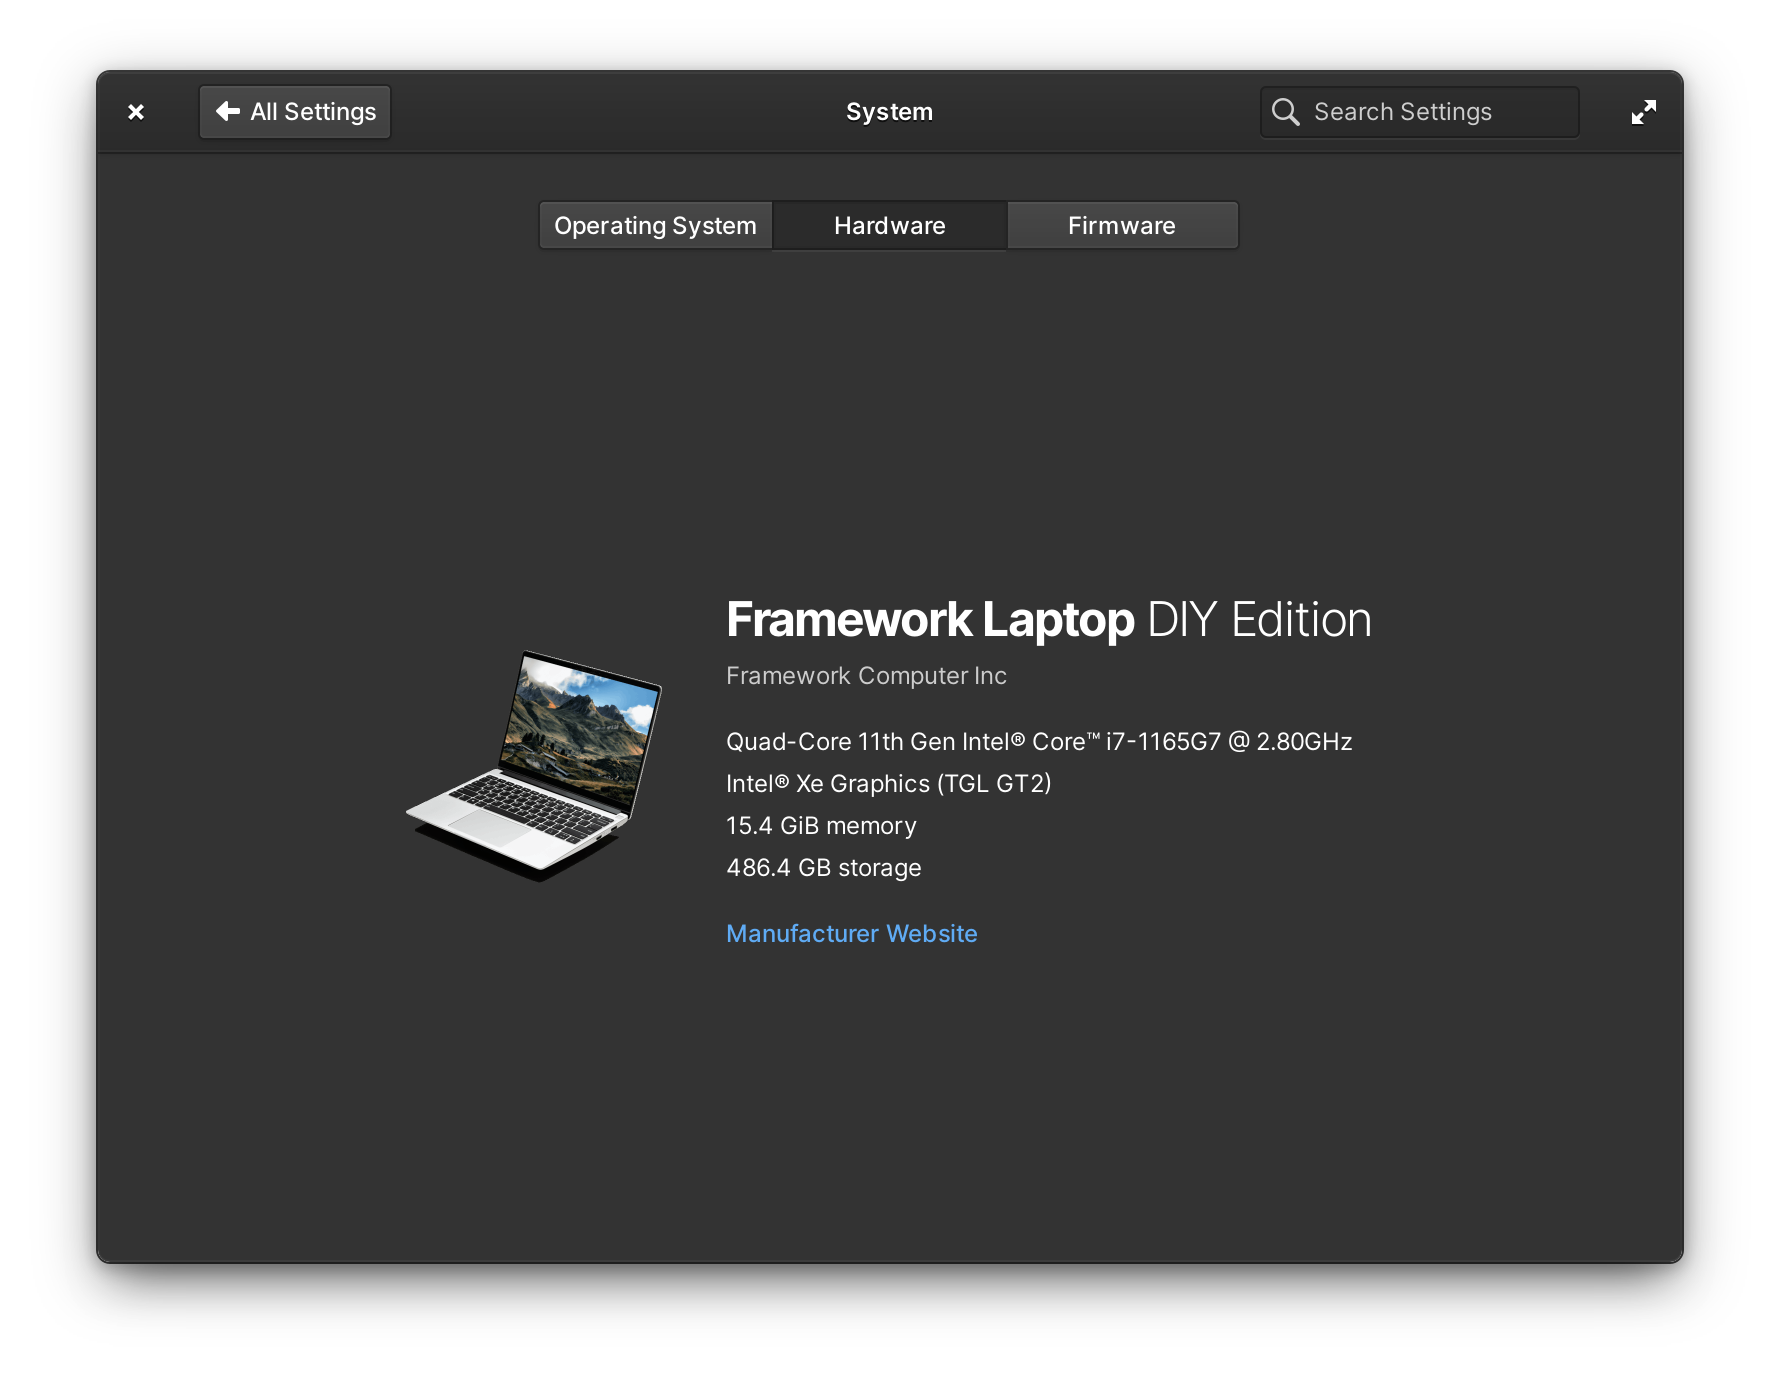
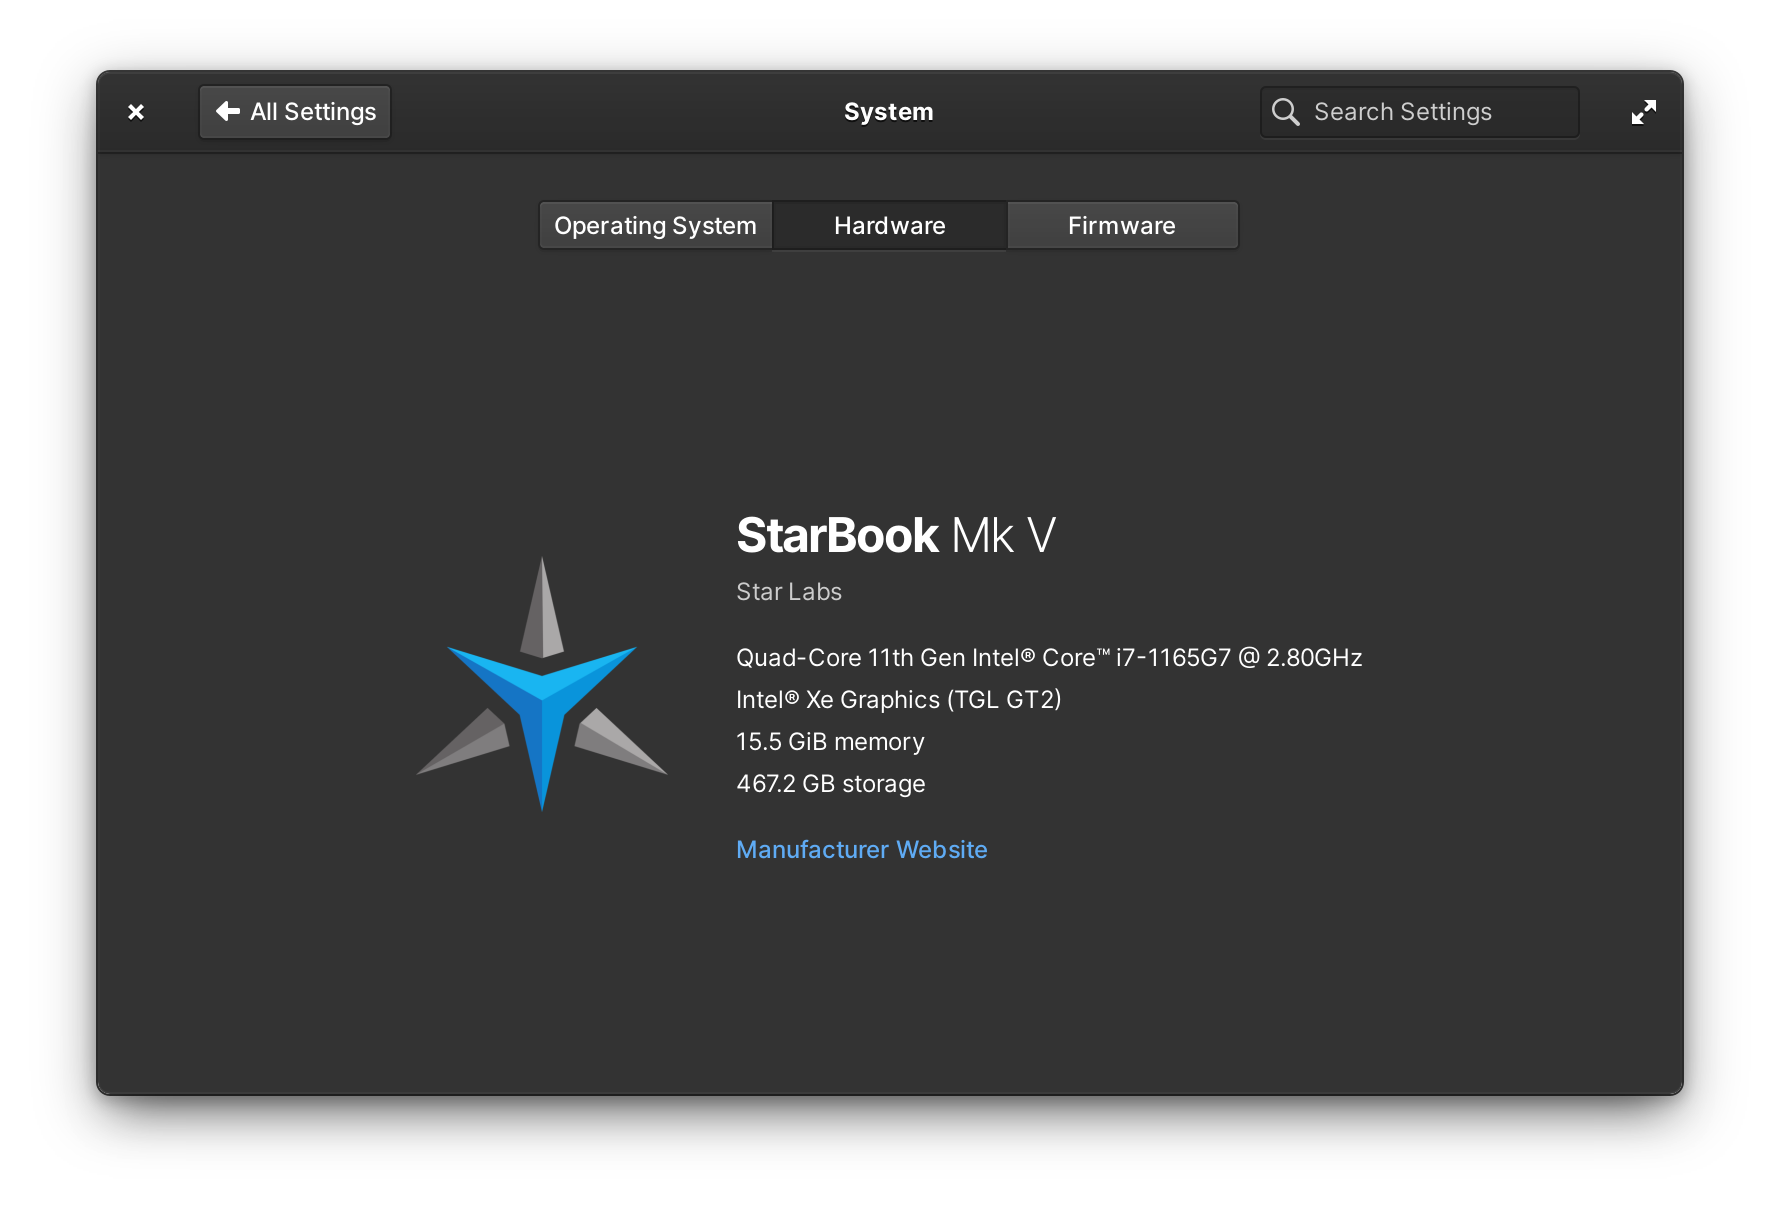
Update recommendations; update StarBook

diff --git a/README.md b/README.md
@@ -21,19 +21,24 @@ See the [Switchboard About Plug's OEM Configuration section](https://github.com/
 
 Images should:
 
-- Ideally represent the hardware itself, but an OEM logo is an acceptible fallback
+- Be an OEM logo, or represent the hardware itself
+  - Previously we recommended it represent the hardware itself, but a logo is simpler and requires less updating over time
+  - For hardware with a display, a generic wallpaper or a default screenshot of the latest release of elementary OS is acceptable
 - Have a square aspect ratio
 - Have a transparent background
 - Be at least 256×256 to ensure they show well on HiDPI displays
 - Be 512×512 at the largest for filesize concerns
 - Work on both light and dark backgrounds
+  - or, provide a variant for a dark background with the optional `LogoDark` key
 
 #### To make an image:
 
-Start with the highest-resolution representitive image you can with a transparent background. Alternatively, grab the OEM logo with a transparent background.
+Start with a high-resolution version of the OEM logo with a transparent background. Alternatively, find the highest-resolution representative image of the hardware you can with a transparent background. 
 
 1. Open in GIMP
 2. Crop the image to the content
 3. If the image is larger than 512 in either dimension, scale it down to 512 on the longest side
 4. If the canvas is not square, resize the canvas to a square and center the image
 5. Export as a PNG
+
+File name does not strictly matter as long as it matches what is in the `oem.conf`, but convention is to name the image a kebab-case version of the OEM name if it is an OEM logo, or the device model number if it is a photo of hardware. E.g. `star-labs.png` or `starbook-mk-v.png`.
